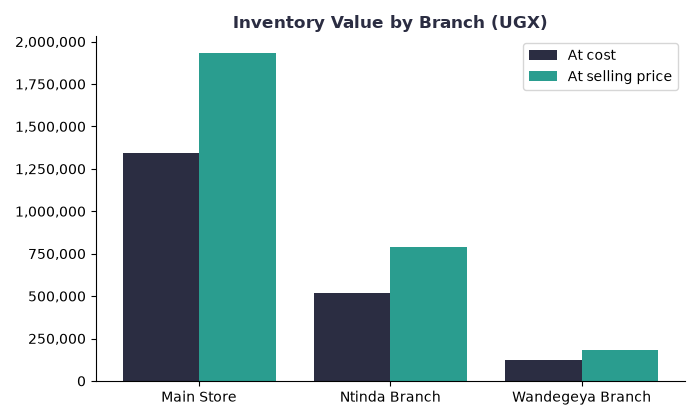
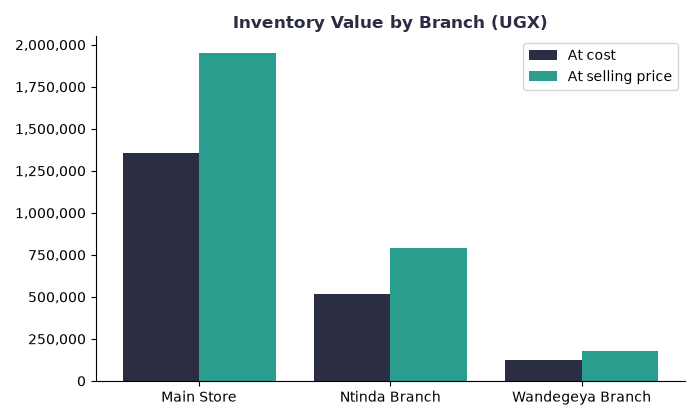
databases

diff --git a/sales_management/streamlit_app.py b/sales_management/streamlit_app.py
@@ -29,15 +29,15 @@ st.markdown(
       html, body, [class*="css"] { font-family: 'DM Sans', sans-serif; }
       .stApp { background: #263f61; }
       [data-testid="stAppViewContainer"] { background: #263f61; }
-      [data-testid="stMain"] { background: #263f61; color: #dce7f5; }
+      [data-testid="stMain"] { background: #263f61; color: #000000; }
       [data-testid="stSidebar"] { background: #111c35; }
       [data-testid="stSidebar"] * { color: #e8eefb; }
       [data-testid="stSidebar"] [data-testid="stRadio"] label { padding: .45rem .2rem; }
-      h1, h2, h3 { font-family: 'Manrope', sans-serif; color: #dce7f5; }
-      .hero { padding: 1.35rem 1.6rem; border-radius: 18px; color: white;
+      h1, h2, h3 { font-family: 'Manrope', sans-serif; color: #000000; }
+      .hero { padding: 1.35rem 1.6rem; border-radius: 18px; color: black;
         background: linear-gradient(115deg, #172747 0%, #245b72 58%, #2b9b8f 100%);
         margin: .2rem 0 1.2rem 0; box-shadow: 0 12px 28px #1b35551c; }
-      .hero h1 { color: white; margin: 0; font-size: 2rem; }
+      .hero h1 { color: black; margin: 0; font-size: 2rem; }
       .hero p { color: #d5e5ee; margin: .3rem 0 0 0; }
       div[data-testid="stMetric"] { background: white; padding: 1rem 1.1rem;
         border: 1px solid #e8edf4; border-radius: 14px; box-shadow: 0 4px 14px #1b35550a; }
@@ -50,7 +50,7 @@ st.markdown(
       .caption { color: #bac9dc; }
       .overview-kicker { color: #8bd4ca; font-size: .76rem; font-weight: 700;
         letter-spacing: .12em; text-transform: uppercase; margin: .25rem 0 .35rem; }
-      .overview-intro { color: #dce7f5; font-size: 1.05rem; margin: 0 0 1rem; }
+      .overview-intro { color: #000000; font-size: 1.05rem; margin: 0 0 1rem; }
       .overview-section { color: #e8eefb; font-family: 'Manrope', sans-serif;
         font-size: 1.15rem; font-weight: 700; margin: .2rem 0 .15rem; }
       .overview-note { color: #bac9dc; font-size: .88rem; margin: 0 0 .8rem; }
